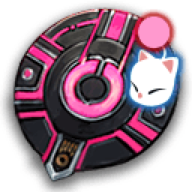
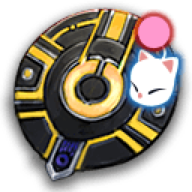
feat(data): add The Second Hunt for Astronomy event
- Add the Dec 2026 event from the wiki and Lodestone pages
- Add icons for the new exchange items and the Astronomy II tome art
- Point the favicon and PWA icons at the Astronomy II art

diff --git a/app/src/lib/events.test.ts b/app/src/lib/events.test.ts
@@ -5,7 +5,7 @@ describe("event loading", () => {
   it("loads events sorted newest-first by start date", () => {
     const events = getAllEvents();
     expect(events.length).toBeGreaterThan(0);
-    expect(events[0].id).toBe("2026-09-astronomy-first-hunt");
+    expect(events[0].id).toBe("2026-12-astronomy-second-hunt");
   });
   it("merges the registered fixture with the bundled events", () => {
     const ids = getAllEvents().map((e) => e.id);
@@ -20,10 +20,10 @@ describe("event loading", () => {
     expect(getActiveEvent(new Date("2026-04-15T00:00:00Z"))?.id).toBe("2026-03-mogmog-collection");
   });
   it("active event: between events falls back to most recent", () => {
-    expect(getActiveEvent(new Date("2026-07-09T00:00:00Z"))?.id).toBe("2026-09-astronomy-first-hunt");
+    expect(getActiveEvent(new Date("2026-07-09T00:00:00Z"))?.id).toBe("2026-12-astronomy-second-hunt");
   });
   it("active event: before any event starts falls back to most recent", () => {
-    expect(getActiveEvent(new Date("2020-01-01T00:00:00Z"))?.id).toBe("2026-09-astronomy-first-hunt");
+    expect(getActiveEvent(new Date("2020-01-01T00:00:00Z"))?.id).toBe("2026-12-astronomy-second-hunt");
   });
   it("isEventEnded: false before the end, true after, and a null end never ends", () => {
     const e = getEvent("2026-03-mogmog-collection")!;

diff --git a/app/src/router.test.tsx b/app/src/router.test.tsx
@@ -9,9 +9,8 @@ describe("router", () => {
     await router.navigate({ to: "/" });
     render(<RouterProvider router={router} />);
     expect(await screen.findByTestId("overview-page")).toBeInTheDocument();
-    // No event is live at the current date, so getActiveEvent falls back to the
-    // newest by start date.
-    expect(router.state.location.pathname).toContain("/2026-09-astronomy-first-hunt/overview");
+    // getActiveEvent returns the Second Hunt, as the live event or as the newest by start date.
+    expect(router.state.location.pathname).toContain("/2026-12-astronomy-second-hunt/overview");
   });
   it("renders objectives route", async () => {
     const router = createAppRouter();

diff --git a/app/index.html b/app/index.html
@@ -4,7 +4,7 @@
     <meta charset="UTF-8" />
     <meta name="viewport" content="width=device-width, initial-scale=1.0, viewport-fit=cover" />
     <title>Tomelist</title>
-    <link rel="icon" type="image/png" href="/tomes/2026-09-astronomy-first-hunt.png" />
+    <link rel="icon" type="image/png" href="/tomes/2026-12-astronomy-second-hunt.png" />
     <link rel="apple-touch-icon" href="/apple-touch-icon-180x180.png" sizes="180x180" />
     <link rel="preconnect" href="https://fonts.googleapis.com" />
     <link rel="preconnect" href="https://fonts.gstatic.com" crossorigin />
